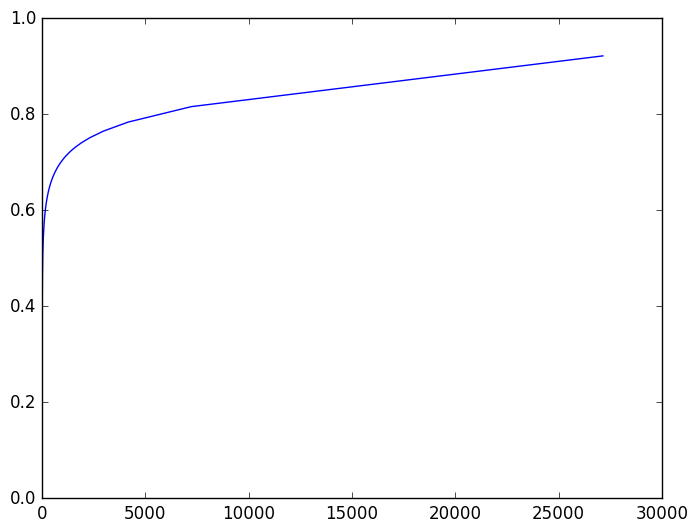
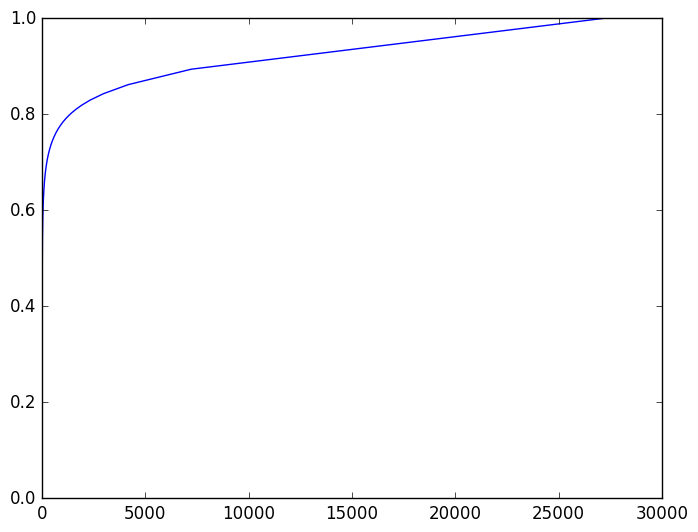
more house cleaning, as usual

diff --git a/scripts/spark_clustering.py b/scripts/spark_clustering.py
@@ -1,7 +1,6 @@
 import plac
 import logging
 
-from gensim.models import Word2Vec
 import numpy as np
 
 import pyspark as ps
@@ -21,41 +20,41 @@ def error(kmeans_model, point):
 
 @plac.annotations(
     noun_to_vect_dict_file_loc=('Path to pickled noun to vector dictionary'),
-    n_trials=('Number of ks to try'),
     out_files_loc=('Path to save centroids')
 )
-def main(noun_file_loc, model_file_loc, percent, n_trials, out_files_loc):
+def main(noun_to_vect_dict_file_loc, out_files_loc):
     logging.basicConfig(format='%(asctime)s : %(levelname)s : %(message)s',
                         level=logging.INFO)
     logger.info('Loading pickled noun to vector dictionary')
     # Load noun to vector dictionary
-    noun_to_vect_dict = pickle.load(noun_to_vect_dict_file_loc)
+    with open(noun_to_vect_dict_file_loc, 'rb') as pickled:
+        noun_to_vect_dict = pickle.load(pickled)
     # Create vector array from mapping
     vectors = np.array(noun_to_vect_dict.values())
+    max_k = int(sqrt(len(vectors) / 2.0))
 
     # Initialize Spark Context
-    sc = ps.SparkContext('local[4]')
+    sc = ps.SparkContext('local[3]')
     # Load data
-    data = sc.parallelize(vectors)
+    data = sc.parallelize(vectors, 1024)
 
     # Define search space for k
-    ns_clusters = [int(x) for x in np.linspace(2, n_nouns, n_trials)]
-    # Open WSSSEs output file
-    with open(path.join(out_files_loc, 'elbow_data.txt'), 'w') as elbow_data:
-        # For each k
-        for i, k in enumerate(ns_clusters):
-            logger.info('Trial %i of %i, %i clusters', (i + 1), n_trials, k)
-            # Calculate cluster
-            kmeans_model = KMeans.train(data, k, maxIterations=10, runs=10,
-                                        initalizationMode='k-means||')
-            # Calculate WSSSE
-            WSSSE = data.map(lambda point: error(kmeans_model, point)) \
-                        .reduce(lambda x, y: x + y)
-            # Save centroids
-            with open(path.join(out_files_loc, '_', k, '.pkl'), 'w') as f:
-                pickle.dump(kmeans_model.clusterCenters(), f)
-            # Write k and WSSSE
-            elbow_data.write('%i, %f', k, WSSSE)
+    numbers_of_clusters = xrange(9, max_k)
+    # For each k
+    for i, k in enumerate(numbers_of_clusters):
+        logger.info('Trial %i of %i, %i clusters', (i + 8), max_k - 1, k)
+        # Calculate cluster
+        kmeans_model = KMeans.train(data, k, maxIterations=10, runs=10,
+                                    initializationMode='k-means||')
+        # Calculate WSSSE
+        WSSSE = data.map(lambda point: error(kmeans_model, point)) \
+                    .reduce(lambda x, y: x + y)
+        # Save centroids
+        with open(path.join(out_files_loc, str(k) + '.pkl'), 'w') as f:
+            pickle.dump(kmeans_model.clusterCenters, f)
+        # Write k and WSSSE
+        with open(path.join(out_files_loc, 'elbow_data.txt'), 'a') as elbow_data:
+            elbow_data.write(str(k) + '\t' + str(WSSSE) + '\n')
 
 if __name__ == '__main__':
     plac.call(main)

diff --git a/scripts/draw_cum_freqs.py b/scripts/draw_cum_freqs.py
@@ -7,20 +7,8 @@ import matplotlib.pyplot as plt
 
 from os import path
 
-stopwords = ['i', 'me', 'my', 'myself', 'we', 'our', 'ours', 'ourselves', 'you', 'your', 'yours',
-             'yourself', 'yourselves', 'he', 'him', 'his', 'himself', 'she', 'her', 'hers',
-             'herself', 'it', 'its', 'itself', 'they', 'them', 'their', 'theirs', 'themselves',
-             'what', 'which', 'who', 'whom', 'this', 'that', 'these', 'those', 'am', 'is', 'are',
-             'was', 'were', 'be', 'been', 'being', 'have', 'has', 'had', 'having', 'do', 'does',
-             'did', 'doing', 'a', 'an', 'the', 'and', 'but', 'if', 'or', 'because', 'as', 'until',
-             'while', 'of', 'at', 'by', 'for', 'with', 'about', 'against', 'between', 'into',
-             'through', 'during', 'before', 'after', 'above', 'below', 'to', 'from', 'up', 'down',
-             'in', 'out', 'on', 'off', 'over', 'under', 'again', 'further', 'then', 'once', 'here',
-             'there', 'when', 'where', 'why', 'how', 'all', 'any', 'both', 'each', 'few', 'more',
-             'most', 'other', 'some', 'such', 'no', 'nor', 'not', 'only', 'own', 'same', 'so',
-             'than', 'too', 'very', 's', 't', 'can', 'will', 'just', 'don', 'should', 'now']
-
 logger = logging.getLogger(__name__)
+
 
 @plac.annotations(
     in_loc=('Location of input file'),
@@ -42,16 +30,15 @@ def main(in_loc, out_loc):
         for line in f:
             line = make_tuple(line)
             # Add frequency
-            if line[0].split('|')[0].lower() not in stopwords:
-                cum_freq += float(line[1])
-                # If this is the 1000th word (also includes the 1st)
-                if counter % 1000 == 0:
-                    # Add cumulative frequency to array
-                    cum_freqs_1000.append(cum_freq)
-                    # Add word to array
-                    nouns_1000.append(line[0])
-                if counter % 10000 == 0:
-                    logger.info('At word %i', counter)
+            cum_freq += float(line[1])
+            # If this is the 1000th word (also includes the 1st)
+            if counter % 1000 == 0:
+                # Add cumulative frequency to array
+                cum_freqs_1000.append(cum_freq)
+                # Add word to array
+                nouns_1000.append(line[0])
+            if counter % 10000 == 0:
+                logger.info('At word %i', counter)
             # Increment counter
             counter += 1
     print 'Total nouns:', str(counter)

diff --git a/scripts/filter_nouns.py b/scripts/filter_nouns.py
@@ -39,7 +39,7 @@ def main(nouns_loc, word2vec_loc, n_nouns, out_loc):
 
     logger.info('Pickling noun to vector dictionary')
     # Pickle dictionary
-    with open(path.join(out_loc, 'noun_to_vect_dict.pkl'), 'w') as f:
+    with open(path.join(out_loc, 'noun_to_vect_dict_' + n_nouns + '.pkl'), 'w') as f:
         pickle.dump(noun_to_vect_dict, f)
 
 if __name__ == '__main__':
